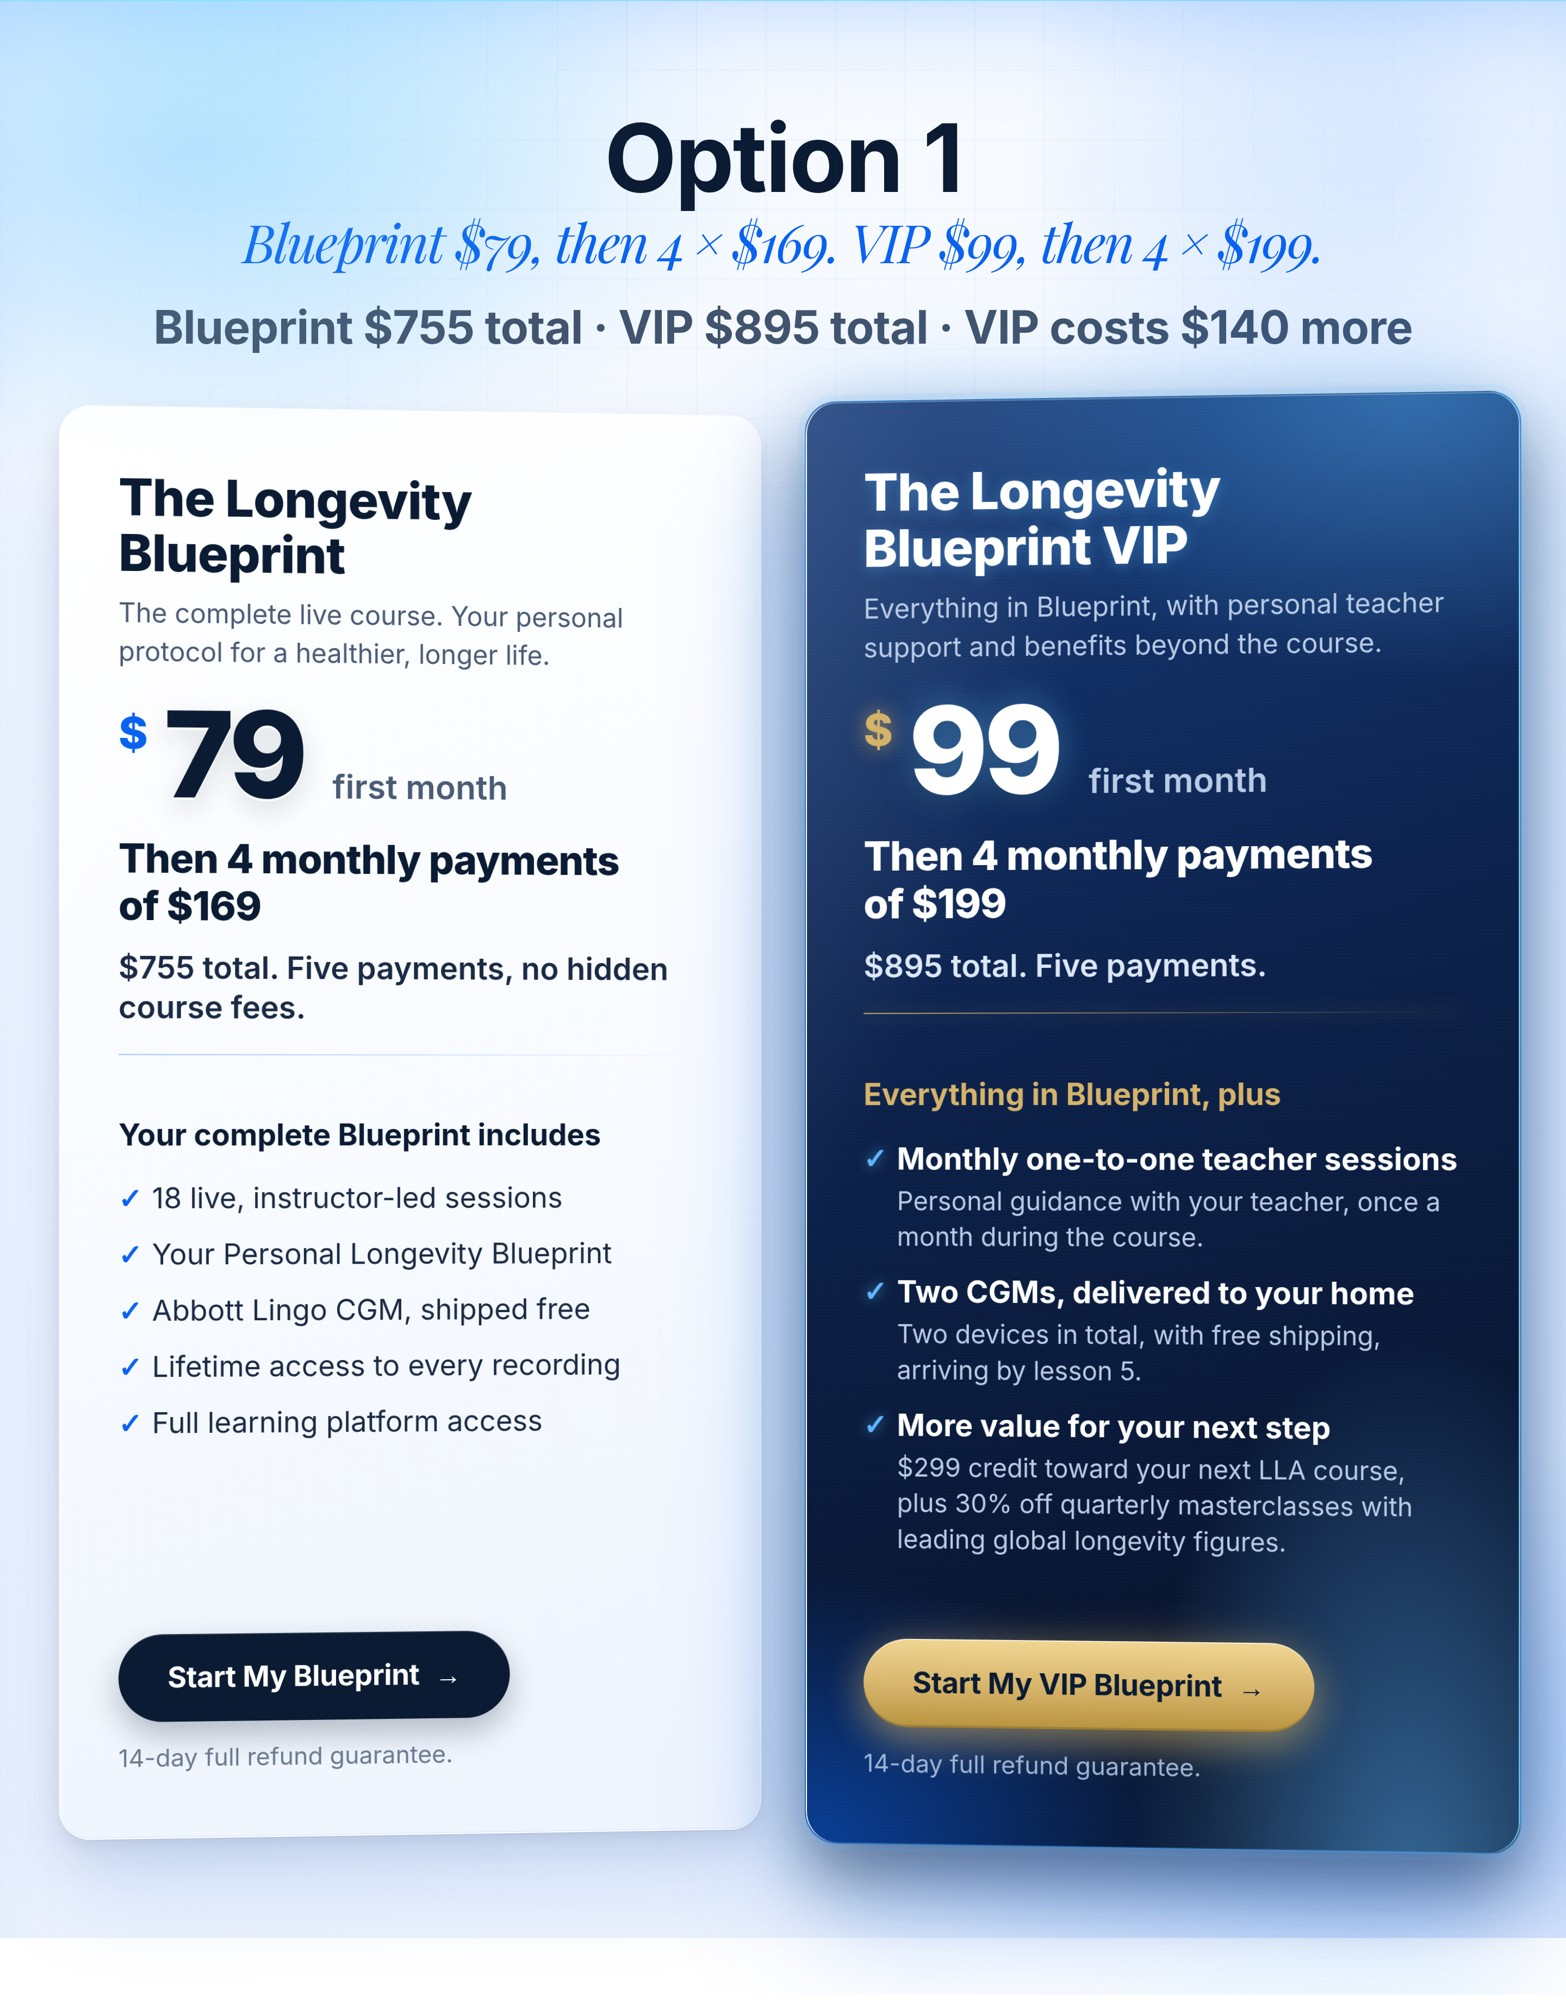
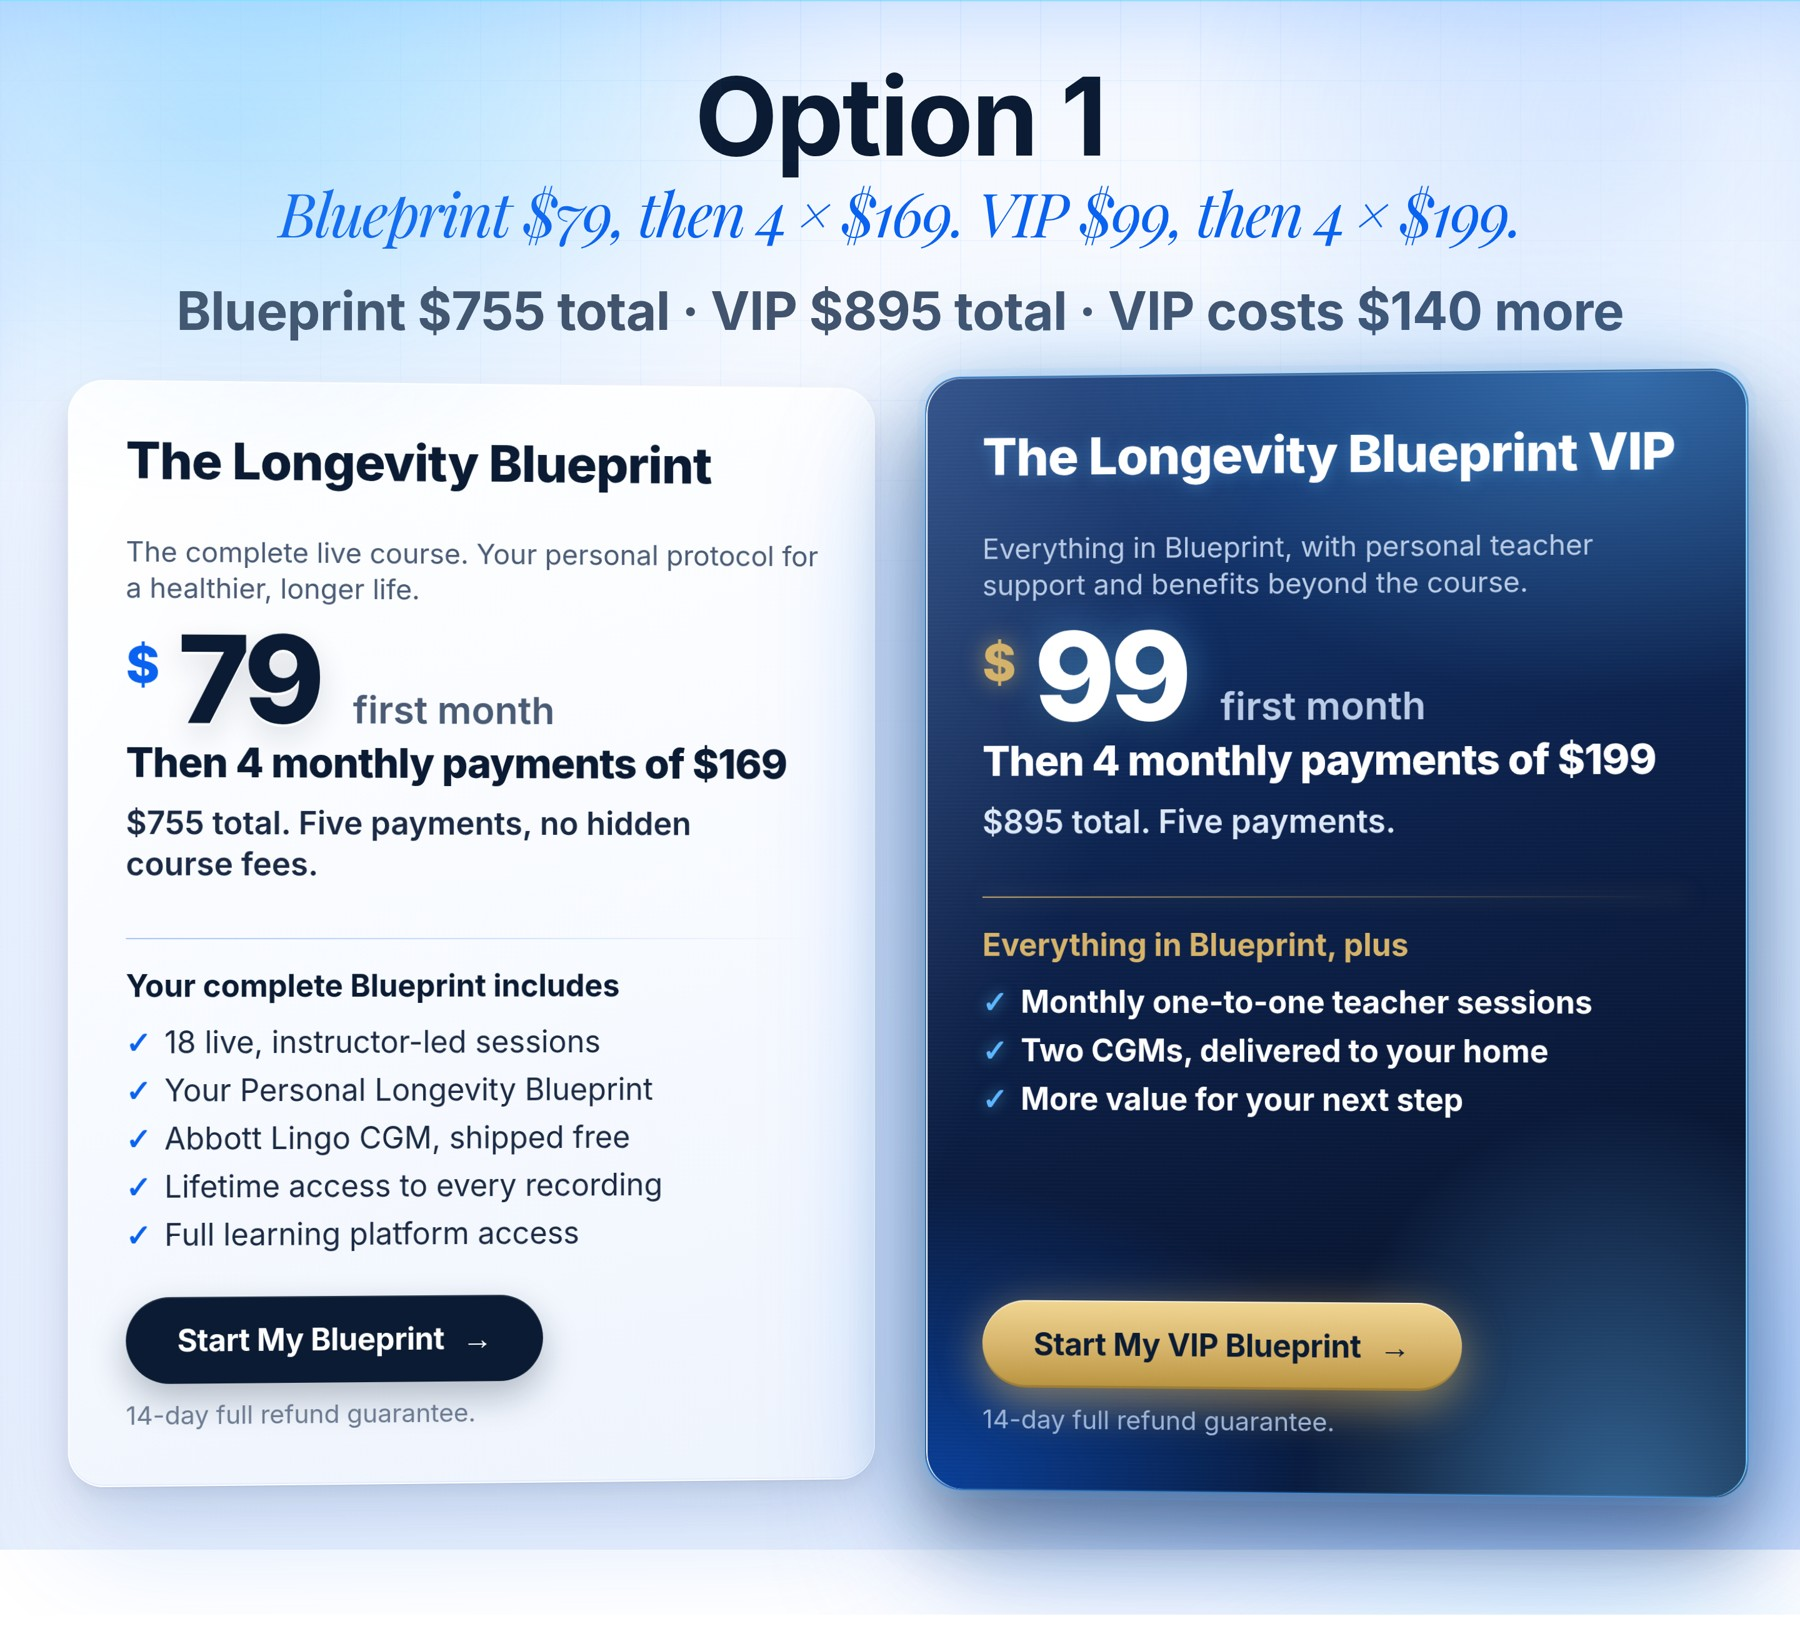
compact cards: shorter bullets, tighter spacing

Changed region(s): [[0.0307, 0.0312, 1.0, 0.9676], [0.5824, 0.0312, 0.613, 0.0624]]

diff --git a/compare/premium.css b/compare/premium.css
@@ -148,3 +148,23 @@
 #lpRoot .bp-card .bp-button{font-size:26px!important;padding:24px 44px!important}
 #lpRoot .bp-card .bp-guarantee{font-size:22px!important}
 #lpRoot .bp-card h3{font-size:46px!important}
+/* v9 compact pass */
+#lpRoot .bp-card{padding:40px 44px!important;display:flex!important;flex-direction:column!important}
+#lpRoot .bp-card h3{font-size:40px!important;margin-bottom:6px!important}
+#lpRoot .bp-card .bp-desc{font-size:22px!important;line-height:1.3!important;margin:0 0 14px!important}
+#lpRoot .bp-card .bp-price{margin:0!important}
+#lpRoot .bp-card .bp-price strong{font-size:96px!important;line-height:.9!important}
+#lpRoot .bp-card .bp-follow{font-size:32px!important;margin-top:4px!important}
+#lpRoot .bp-card .bp-total{font-size:25px!important;margin-top:4px!important}
+#lpRoot .bp-card .bp-rule{margin:18px 0!important}
+#lpRoot .bp-card .bp-included{font-size:24px!important;margin:0 0 10px!important}
+#lpRoot .bp-card .bp-features{margin:0!important;padding:0!important}
+#lpRoot .bp-card .bp-features li{font-size:24px!important;line-height:1.25!important;margin-bottom:8px!important}
+#lpRoot .bp-card .bp-features li b,#lpRoot .bp-card .bp-features li strong{font-size:24px!important}
+#lpRoot .bp-card .bp-features li .bp-detail,#lpRoot .bp-card .bp-features li small,#lpRoot .bp-card .bp-features li span{display:none!important}
+#lpRoot .bp-card .bp-button{margin-top:auto!important;padding:20px 40px!important;font-size:24px!important}
+#lpRoot .bp-card .bp-button+*{margin-top:10px!important}
+#lpRoot .bp-card .bp-guarantee{font-size:20px!important;margin:10px 0 0!important}
+#lpRoot .bp-offer{padding-top:48px!important;padding-bottom:56px!important}
+#lpRoot .bp-offer .bp-heading{margin-bottom:28px!important}
+#lpRoot .bp-card .bp-features{margin-bottom:26px!important}

diff --git a/options/index.html b/options/index.html
@@ -1780,7 +1780,7 @@ body.lla-em-open #et-bumpyard-widget{display:none!important}
   html body#lpRoot #hero .pdp-cine-sub{font-family:'Inter',sans-serif!important;font-style:normal!important;text-transform:none!important}
 }
 </style>
-<link rel="stylesheet" href="../relaunch.css?v=vip199"><style id="opt-only">body>*:not(section.bp-offer):not(script):not(style){display:none!important}body>section.bp-offer{display:block!important}.bp-foot{display:none!important}.opt-sum{font-size:clamp(22px,2.2vw,30px)!important;font-weight:700;color:#0B1B33;margin:18px auto 0;text-align:center;letter-spacing:-.4px;max-width:none!important;white-space:nowrap}.bp-heading h2 em{display:block;font-size:.72em;margin-top:6px}[class^="lla-cta"],.lla-cta,#llaCta,.lla-sticky-cta,.lla-float-cta,#llaFloatCta,[id^="llaFloat"],.lla-float-cta--home{display:none!important;visibility:hidden!important}</style><link rel="stylesheet" href="../compare/premium.css?v=p8"></head>
+<link rel="stylesheet" href="../relaunch.css?v=vip199"><style id="opt-only">body>*:not(section.bp-offer):not(script):not(style){display:none!important}body>section.bp-offer{display:block!important}.bp-foot{display:none!important}.opt-sum{font-size:clamp(22px,2.2vw,30px)!important;font-weight:700;color:#0B1B33;margin:18px auto 0;text-align:center;letter-spacing:-.4px;max-width:none!important;white-space:nowrap}.bp-heading h2 em{display:block;font-size:.72em;margin-top:6px}[class^="lla-cta"],.lla-cta,#llaCta,.lla-sticky-cta,.lla-float-cta,#llaFloatCta,[id^="llaFloat"],.lla-float-cta--home{display:none!important;visibility:hidden!important}</style><link rel="stylesheet" href="../compare/premium.css?v=p10"></head>
 <body id="lpRoot">
 <!-- Google Tag Manager (noscript) -->
 

diff --git a/compare/index.html b/compare/index.html
@@ -1,4 +1,4 @@
 <!doctype html><html lang="en"><head><meta charset="utf-8"><meta name="viewport" content="width=device-width,initial-scale=1"><meta name="robots" content="noindex"><title>Blueprint VIP pricing · 3 options</title>
 <style>body{margin:0;background:#F3F7FC;font-family:-apple-system,Inter,sans-serif;color:#0B1B33}.w{max-width:1100px;margin:0 auto;padding:16px 10px 40px}h1{font-size:22px;margin:6px 6px 14px;letter-spacing:-.3px}img{width:100%;display:block;border-radius:14px;box-shadow:0 6px 24px rgba(11,27,51,.12);margin-bottom:18px;background:#fff}</style></head>
 <body><div class="w"><h1>Blueprint VIP pricing · 3 options</h1>
-<img src="option-1.jpg?v=8" alt="Option 1: VIP $99, then 4 × $199"><img src="option-2.jpg?v=8" alt="Option 2: VIP $129, then 4 × $229"><img src="option-3.jpg?v=8" alt="Option 3: VIP $99, then 4 × $229"></div></body></html>
+<img src="option-1.jpg?v=10" alt="Option 1: VIP $99, then 4 × $199"><img src="option-2.jpg?v=10" alt="Option 2: VIP $129, then 4 × $229"><img src="option-3.jpg?v=10" alt="Option 3: VIP $99, then 4 × $229"></div></body></html>
